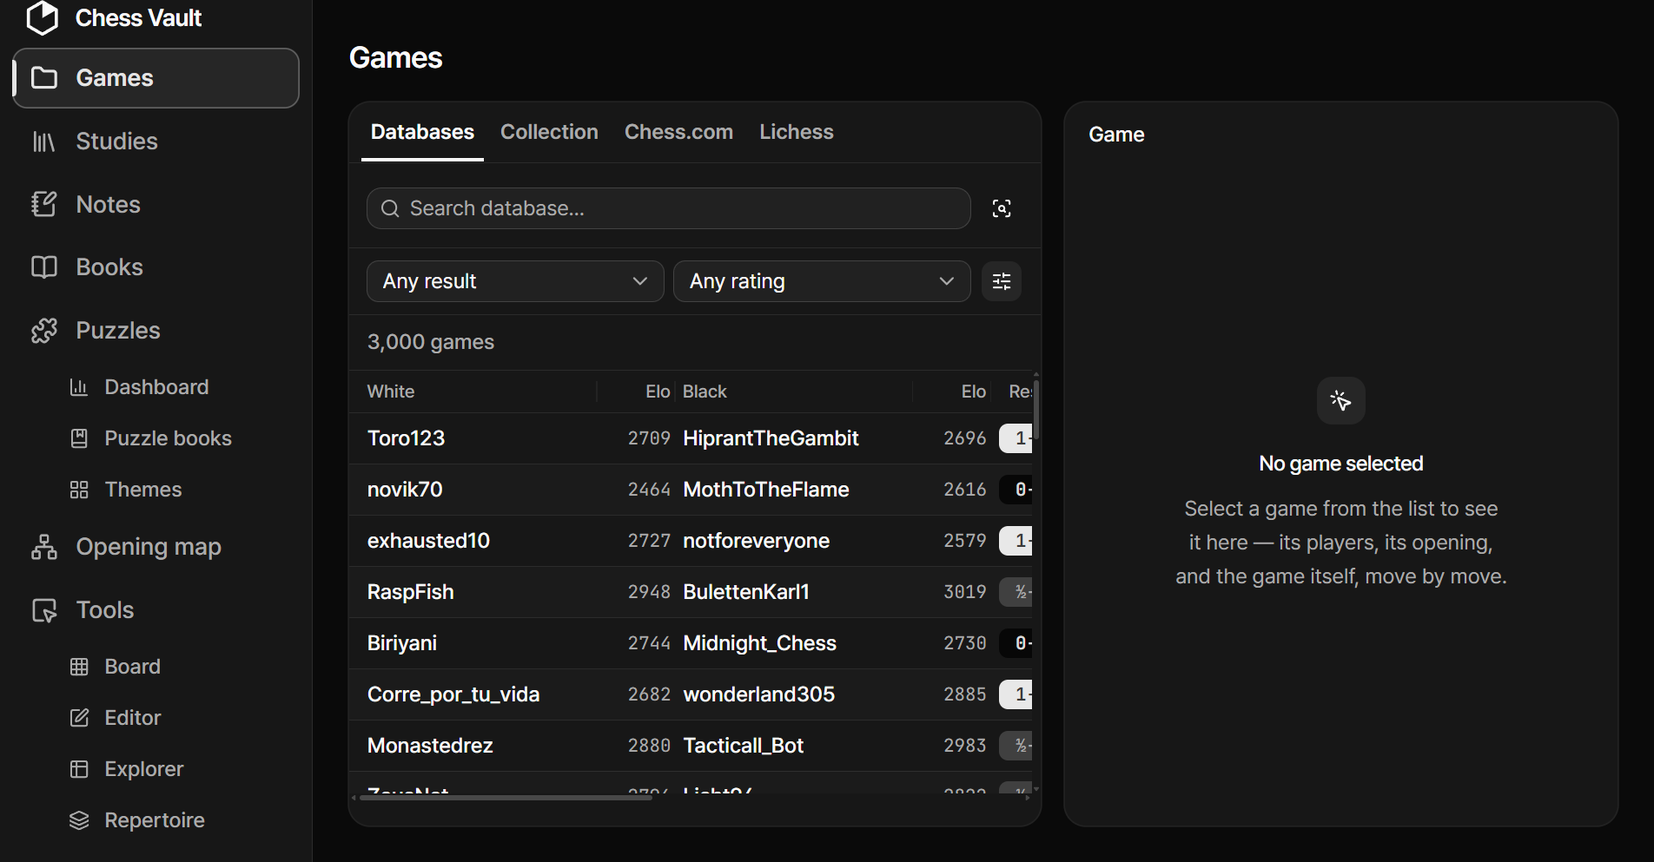
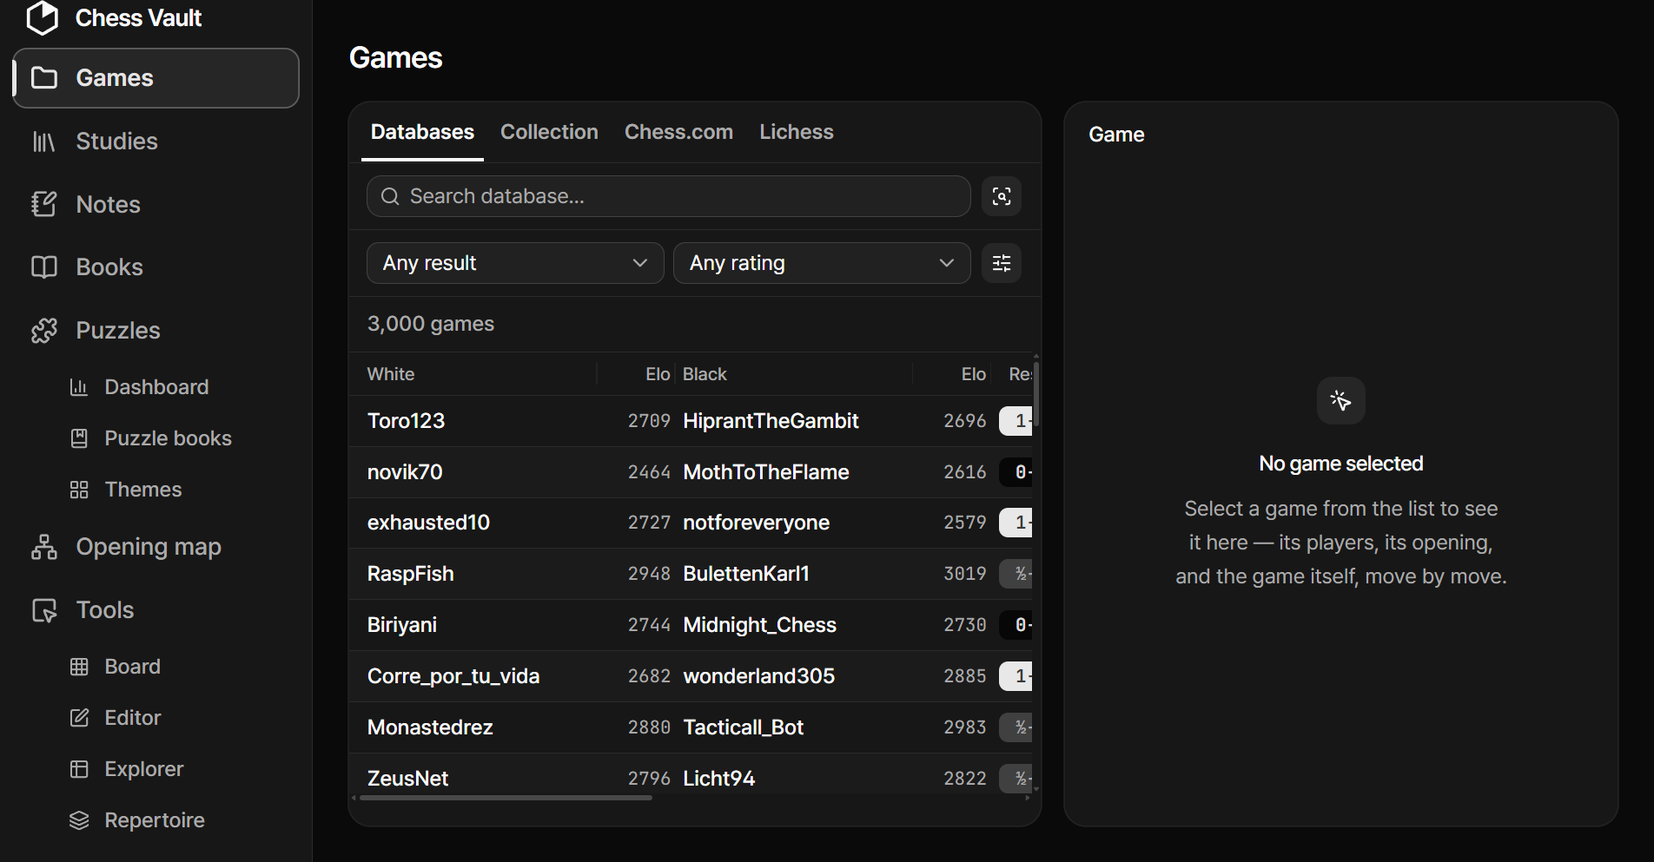
The docs catch up with the workspace, and the screenshots follow
The release-prep docs pass for the workspace work, landing on
docs.html after the manual's rename. The docs gain a Workspace
section - the layout, the wide-only gate quoted verbatim, working in
place (row clicks, the collection's document rule, the hunt filling
the band), the keyboard's split grammar and the Analysis panel - in
both languages, with a figure of its own. Around it, the touched
surfaces update: the sidebar's Tools list names Workspace and its
width rule, the Games page's width paragraph explains the one-row
fold against the stacked bands, By position documents the hunt
toggle, Enter and the return-symbol button, and the review graph's
hover marks get their line. The update log records the release's
three features in both languages. (A three-line --mono variable from
the landing work rides along - it was in the tree beside these
edits.)

The screenshot set recaptures against the current build - the games
pages, explorer, puzzle trainer and opening map had drifted across
this cycle's commits - and gains workspace.png: its own frame, wider
than the standard 1100 css-px (the page gates at 1152) and taller (at
the standard frame's 678 the board floored at its minimum over an
empty band), waiting on the band's rows rather than the board because
they land last.

diff --git a/web/landing/docs.html b/web/landing/docs.html
@@ -58,6 +58,9 @@
            because the sidebar sticks under it and the page anchors scroll
            past it. */
         --header-h: 3.75rem;
+        /* The second voice, as on the landing page: a path, a figure
+           number, a language code. Never prose. */
+        --mono: ui-monospace, SFMono-Regular, Menlo, Consolas, "Liberation Mono", monospace;
       }
       @media (prefers-color-scheme: dark) {
         :root {
@@ -326,6 +329,7 @@
         <a href="#engine" data-ko="엔진">The engine</a>
         <a href="#explorer" data-ko="탐색기">The explorer</a>
         <a href="#editor" data-ko="에디터">The editor</a>
+        <a href="#workspace" data-ko="워크스페이스">The workspace</a>
         <h5 data-ko="서재">Your library</h5>
         <a href="#studies" data-ko="스터디">Studies</a>
         <a href="#notes" data-ko="노트">Notes</a>
@@ -569,11 +573,13 @@
               with what you were last doing, and its arrangement is yours to decide.
             </p>
             <h2 data-ko="탐색">Navigation</h2>
-            <p data-ko="사이드바의 순서: <strong>Games · Studies · Notes · Books · Puzzles</strong>(하위로 Dashboard, Puzzle books, Themes) · <strong>Opening map</strong> · <strong>Tools</strong>(Board, Editor, Explorer, Repertoire) · <strong>Databases</strong>. 사이드바 아래에는 연결 상태 표시(«This machine», 서버 이름, 또는 «Offline»), 설정 톱니, 라이트/다크 전환이 있습니다.">
+            <p data-ko="사이드바의 순서: <strong>Games · Studies · Notes · Books · Puzzles</strong>(하위로 Dashboard, Puzzle books, Themes) · <strong>Opening map</strong> · <strong>Tools</strong>(Board, Editor, Explorer, Workspace, Repertoire — Workspace 항목은 그 페이지를 담을 만큼 넓은 창에서만 보입니다. <a href='#workspace'>워크스페이스</a> 참조) · <strong>Databases</strong>. 사이드바 아래에는 연결 상태 표시(«This machine», 서버 이름, 또는 «Offline»), 설정 톱니, 라이트/다크 전환이 있습니다.">
               The sidebar, top to bottom: <strong>Games · Studies · Notes · Books ·
               Puzzles</strong> (with Dashboard, Puzzle books and Themes under it) ·
               <strong>Opening map</strong> · <strong>Tools</strong> (Board, Editor, Explorer,
-              Repertoire) · <strong>Databases</strong>. Below them sit the connection label (“This
+              Workspace, Repertoire — the Workspace row exists only on windows wide enough to hold
+              that page; see <a href="#workspace">The workspace</a>) ·
+              <strong>Databases</strong>. Below them sit the connection label (“This
               machine”, your server's name, or “Offline”), the Settings gear, and the light/dark
               toggle.
             </p>
@@ -857,8 +863,10 @@
               list holds:
             </p>
             <ul>
-              <li data-ko="클릭(또는 끌기)으로 이동하는 <strong>평가 그래프</strong> — 접었다 펼 수 있습니다.">
-                The <strong>evaluation graph</strong> — click or drag to jump; folds away.
+              <li data-ko="클릭(또는 끌기)으로 이동하는 <strong>평가 그래프</strong> — 포인터 아래의 수가 파란 점과 안내선으로 표시되어 클릭이 어디로 가는지 미리 보여 주고, 접었다 펼 수 있습니다.">
+                The <strong>evaluation graph</strong> — click or drag to jump; the move under the
+                pointer marks itself with a blue dot and a guide line, so you see where a click
+                lands before it does. Folds away.
               </li>
               <li data-ko="진영별 요약: 정확도 %, 평균 손실, 북 무브 수(«known opening theory, not judged»), 그리고 <code>!!</code> <code>?!</code> <code>?</code> <code>??</code>의 개수. 판정 기호는 수 목록과 보드에도 그대로 붙습니다.">
                 Per-side summaries: accuracy %, average loss, the book-move count (“known opening
@@ -1099,6 +1107,79 @@
           </div>
         </section>
 
+        <section class="page" id="workspace">
+          <div class="doc">
+            <h1 data-ko="워크스페이스">The workspace</h1>
+            <p class="lede" data-ko="모든 분석 화면을 한 페이지에: 보드, 수 목록과 엔진, 탐색기와 분석 패널 — 그리고 그 아래 전체 너비의 게임 브라우저. 여러 맥락을 오가는 분석이 페이지 이동 없이 한 화면에서 흐르도록 만든 페이지입니다.">
+              Every analysis surface on one page: the board, the move list with the engine, the
+              explorer with an Analysis panel — and the whole games browser as a full-width band
+              underneath. It exists so that browsing games, consulting the explorer and analysing
+              stop being page changes.
+            </p>
+            <p data-ko="새로운 것은 없습니다 — 의도된 일입니다. 여기 있는 모든 창은 다른 페이지가 하나씩 보여 주는 바로 그 구성 요소이고, 같은 전역 상태를 읽습니다. 그래서 보드 페이지에서 분석하던 포지션이 워크스페이스에 그대로 따라 들어오고, 반대로도 마찬가지입니다.">
+              Nothing here is new, on purpose: every pane is the same component some other page
+              shows one at a time, reading the same state. A position you were analysing on the
+              Board page follows you in, and back out.
+            </p>
+            <figure>
+              <picture>
+                <source media="(prefers-color-scheme: dark)" srcset="shots/workspace-dark.png" />
+                <img src="shots/workspace.png" alt="The workspace: the board, moves and explorer over the games band" />
+              </picture>
+            </figure>
+            <h2 data-ko="넓은 화면 전용">Wide screens only</h2>
+            <p data-ko="이 페이지의 존재 이유는 동시성이므로, 여러 창을 담을 수 없는 창에서는 스스로 물러납니다. 좁은 창에서 열면 안내 카드가 대신 섭니다 — “The workspace shows the board, the moves, the explorer and the games browser side by side, and needs a window wide enough to hold them all. On this screen its panes are pages of their own.” — 그리고 사이드바의 Workspace 항목도 그런 창에서는 아예 그려지지 않습니다. 창을 다시 넓히면 모든 것이 그대로 돌아옵니다: 상태는 페이지가 아니라 앱이 들고 있습니다.">
+              The page's whole premise is simultaneity, so on a window that cannot hold its panes
+              it steps aside: a card explains — “The workspace shows the board, the moves, the
+              explorer and the games browser side by side, and needs a window wide enough to hold
+              them all. On this screen its panes are pages of their own.” — and the sidebar's
+              Workspace row is not drawn there at all. Widen the window and everything returns as
+              it was: the state belongs to the app, not the page.
+            </p>
+            <h2 data-ko="배치">The layout</h2>
+            <p data-ko="위 행은 세 기둥입니다: 보드(창의 높이가 허락하는 만큼 커지고, 남는 높이는 전부 아래 게임 밴드의 줄이 됩니다), 엔진이 얹힌 수 목록 패널, 그리고 탐색기 기둥 — 탐색기 아래에 <strong>Analysis</strong> 패널이 섭니다. 아래 밴드는 <a href='#games'>Games 페이지의 브라우저 전체</a>입니다: Databases · Collection · Chess.com · Lichess, 네 탭 그대로, 검색과 필터와 포지션 검색까지 전부.">
+              The top row is three columns: the board (as large as the window's height allows —
+              every line it cannot use becomes a games-band row instead), the moves panel with the
+              engine docked on top, and the explorer's column with the <strong>Analysis</strong>
+              panel under it. The band below is <a href="#games">the Games page's whole
+              browser</a> — Databases · Collection · Chess.com · Lichess, all four tabs, search,
+              filters and the position hunt included.
+            </p>
+            <h2 data-ko="그 자리에서">Working in place</h2>
+            <ul>
+              <li data-ko="밴드의 어느 줄이든 한 번 클릭하면 그 게임이 보드에 올라옵니다 — 아카이브의 게임은 당신 진영에서. 페이지는 어디로도 가지 않습니다. <kbd>↑</kbd><kbd>↓</kbd>로 줄을 넘기면 게임이 차례로 보드를 지나갑니다.">
+                One click on any band row puts that game on the board — archive games from your
+                side — and the page goes nowhere. <kbd>↑</kbd><kbd>↓</kbd> walk the rows, each
+                game taking the board in turn.
+              </li>
+              <li data-ko="모음의 게임은 문서입니다: 두 번 클릭(또는 <kbd>Enter</kbd>)이 그 문서 페이지를 엽니다 — 주석은 문서의 일이고, 워크스페이스의 보드는 일회용이라 줄 넘기기가 언제나 자유롭습니다. 데이터베이스와 아카이브의 게임은 두 번 클릭해도 이 자리에서 열립니다.">
+                A collection game is a document: a double click (or <kbd>Enter</kbd>) opens its
+                document page — annotating is a document's work, and the workspace board stays
+                throwaway so browsing stays free. Database and archive games open in place even on
+                a double click.
+              </li>
+              <li data-ko="탐색기의 «Find this position in the databases browser»는 여기서는 아래 밴드를 그 포지션 검색으로 채웁니다 — 페이지를 떠나는 대신.">
+                The explorer's “Find this position in the databases browser” fills the band below
+                with that hunt, instead of leaving the page.
+              </li>
+              <li data-ko="키보드의 문법: <kbd>←</kbd><kbd>→</kbd>는 수를, <kbd>↑</kbd><kbd>↓</kbd>는 게임 줄을 걷습니다. <kbd>Home</kbd><kbd>End</kbd>는 보드를 처음과 끝으로, <kbd>f</kbd>는 보드를 뒤집습니다.">
+                The keyboard's grammar: <kbd>←</kbd><kbd>→</kbd> walk the moves,
+                <kbd>↑</kbd><kbd>↓</kbd> walk the games. <kbd>Home</kbd> and <kbd>End</kbd> jump
+                the board to its start and end, <kbd>f</kbd> flips it.
+              </li>
+            </ul>
+            <h2 data-ko="분석 패널">The Analysis panel</h2>
+            <p data-ko="탐색기 아래의 <strong>Analysis</strong> 패널은 보드 페이지가 수 목록 밑에 접어 두는 리뷰 띠 그 자체를 패널로 세운 것입니다 — 게임이 올라오면 “Review game”을 권하고, 끝나면 평가 그래프(여기서는 더 크게)와 진영별 요약을 보여 줍니다. 아직 아무것도 없으면 이렇게 말합니다: “Play moves or load a game, then run an engine review.” 머리의 스위치가 패널을 접습니다 — 탐색기 머리의 스위치와 같은 문법으로.">
+              The <strong>Analysis</strong> panel under the explorer is the Board page's review
+              strip standing as a panel of its own: it offers “Review game” when a game lands,
+              and when a review finishes it holds the evaluation graph (drawn taller here) and the
+              per-side summaries. With nothing to show it says so: “Play moves or load a game,
+              then run an engine review.” The switch in its header folds it — the same grammar as
+              the explorer's own switch.
+            </p>
+          </div>
+        </section>
+
         <section class="page" id="studies">
           <div class="doc">
             <h1 data-ko="스터디">Studies</h1>
@@ -1290,11 +1371,14 @@
               (Start · Back · {idx} / {plies} · Forward · End) and the whole mainline as clickable
               SAN. On a phone the same arrives as a “{white} vs {black}” sheet.
             </p>
-            <p data-ko="네 개의 탭이 어느 너비에서나 페이지입니다 — 너비는 겉모습만 바꿉니다. 데스크톱은 상세 칸과 빽빽한 표를 더하고, 휴대폰은 같은 탭들에 카드 줄을 주며 게임 상세를 그 줄의 자기 메뉴에서 엽니다. 만들기 버튼은 한 번 눌러 곧장 가져오기(«Import a game»)로 갑니다 — 그것이 내주던 나머지는 전부 탭이 되었기 때문입니다.">
+            <p data-ko="네 개의 탭이 어느 너비에서나 페이지입니다 — 너비는 겉모습만 바꿉니다. 데스크톱은 상세 칸과 빽빽한 표를 더하고, 휴대폰은 같은 탭들에 카드 줄을 주며 게임 상세를 그 줄의 자기 메뉴에서 엽니다. 판이 한 줄을 담을 만큼 넓으면 — 워크스페이스의 밴드, 넓은 창의 이 페이지 — 각 탭의 검색·필터·개수가 한 줄로 접혀 그 아래가 전부 게임 줄이 되고, 좁으면 위에 적은 띠들의 배치로 돌아갑니다. 만들기 버튼은 한 번 눌러 곧장 가져오기(«Import a game»)로 갑니다 — 그것이 내주던 나머지는 전부 탭이 되었기 때문입니다.">
               The four tabs are the page at every width; width changes only the dressing. A
               desktop adds the details column and the dense table, a phone gives the same tabs
-              card rows and opens a game's details from the row's own menu. The create button is
-              one press straight to import (“Import a game”), since everything else it used to
+              card rows and opens a game's details from the row's own menu. Where the pane is wide
+              enough to hold one line — the workspace's band, this page on a wide window — each
+              tab's search, filters and count fold into a single row and everything under it is
+              game rows; narrower panes keep the stacked bands described above. The create button
+              is one press straight to import (“Import a game”), since everything else it used to
               offer is a tab.
             </p>
           </div>
@@ -1343,9 +1427,11 @@
               </table>
             </div>
             <h2 data-ko="포지션으로">By position</h2>
-            <p data-ko="«Search by» 전환을 <strong>Position</strong>으로 — «Paste a FEN» 또는 «Set the position up on a board». 그다음 두 사다리가 일치의 뜻을 정합니다:">
-              Flip “Search by” to <strong>Position</strong> — “Paste a FEN” or “Set the position up
-              on a board”. Two ladders then define what a match means:
+            <p data-ko="검색 상자 옆의 보드-스캔 토글(«Search by position or material»)이 검색 줄을 엽니다. «Search by»를 <strong>Position</strong>으로 — «Paste a FEN» 또는 «Set the position up on a board» — 그리고 FEN 칸에서 <kbd>Enter</kbd>가, 또는 줄 끝의 ↵ 버튼이 검색을 실행합니다. 두 사다리가 일치의 뜻을 정합니다:">
+              The board-scan toggle beside the search box (“Search by position or material”)
+              opens the hunt row. Flip “Search by” to <strong>Position</strong> — “Paste a FEN” or
+              “Set the position up on a board” — and <kbd>Enter</kbd> in the FEN field, or the ↵
+              button at the row's end, runs it. Two ladders then define what a match means:
             </p>
             <div class="scroll-x">
               <table class="controls">

diff --git a/docs/update-log.ko.md b/docs/update-log.ko.md
@@ -87,6 +87,41 @@ v0.6.0 태그를 붙인 뒤에 들어온 것들이라 저장소에는 있지만 
   든 `pre`가 제 가장 긴 줄만큼 단을 넓혀 페이지를 390px 휴대폰보다 66px
   넓게 만들고 있었습니다. 그리고 `word-break: keep-all`이 없어 한국어가
   어절 중간에서 꺾이고 있었습니다 — 제목이 "평범 / 한 파일로"로 읽혔습니다.
+- **워크스페이스: 모든 분석 화면을 한 페이지에.** 도구 아래의 새 넓은
+  화면 전용 페이지 — 보드, 엔진이 얹힌 수순 패널, 분석 패널을 거느린
+  탐색기, 그리고 그 아래 전체 너비의 게임 브라우저 밴드. 밴드의 어느
+  줄이든 고르면 그 게임이 그 자리에서 보드에 올라오고(아카이브 게임은
+  내 진영에서, ↑/↓로 줄을 넘기면 게임이 차례로 보드를 지나갑니다),
+  탐색기의 포지션 검색은 페이지를 떠나는 대신 밴드를 채우며, 모음의
+  게임은 더블클릭이 문서 페이지를 엽니다 — 주석은 문서의 일이고,
+  일회용 보드가 자유로운 탐색을 지켜 줍니다. 새로운 것이 없는 것은
+  의도입니다: 모든 창이 다른 페이지가 하나씩 보여 주는 그 구성 요소
+  그대로, 같은 스토어로 움직입니다 — 보드 페이지와 워크스페이스
+  사이에서 포지션이 따라다니는 것도 그 덕분입니다. 창이 좁으면
+  페이지는 안내 카드로 물러나고 사이드바 항목도 그려지지 않습니다.
+  밴드를 위해 Games 페이지의 탭 브라우저를 컴포넌트(GamesBrowser)로
+  추출했고, 원래 페이지에서 바이트 단위로 동일함을 증명했습니다.
+- **게임 테이블의 크롬이 판이 허락하는 곳에서 한 줄로 접힙니다.**
+  검색, 필터 선택 상자, 개수가 목록마다 세 띠로 쌓여 있었습니다 —
+  워크스페이스 밴드에서는 높이의 절반이 컨트롤이었습니다. 측정한 판
+  너비가 충분하면 한 줄로 접히고(탭마다 자기 배열: 데이터베이스는
+  검색과 함께, 모음은 가져오기로 끝나고, 아카이브는 개수와 선택으로 —
+  선택 모드의 컨트롤은 모드가 켜진 동안에만 자기 띠로 나타납니다),
+  좁은 판은 쌓인 띠를 유지하며, 그 사이의 너덜한 줄바꿈 상태는 아예
+  존재하지 않습니다. 줄의 아이콘은 이제 한 규칙을 따릅니다 — 상태를
+  가진 토글은 곁의 필드처럼 상자를 입고, 자리를 떠나는 동사는 조용히
+  — 그리고 포지션 검색은 FEN 칸의 Enter로 실행되며 버튼은 줄 끝의
+  ↵입니다.
+- **리뷰는 자기가 판정한 트리와 함께 사라지고, 화살표 키가
+  돌아옵니다.** 게임을 리뷰하고 떠났다가 다른 게임으로 돌아오면 옛
+  평가 그래프가 새 게임 위에 그려진 채 클릭이 조용히 죽어
+  있었습니다 — 이제 트리가 바뀌는 순간 리뷰 스토어가 스스로
+  비웁니다. 화살표 키는 내비게이션 줄 통합 때 모든 보드 페이지에서
+  죽어 있었고(리스너가 데스크톱에서 더는 그려지지 않는 줄에 살고
+  있었습니다) 이제 보드 자신에게 삽니다. 그래프도 읽기 좋아졌습니다:
+  포인터 아래의 수가 파란 점과 안내선으로 표시되고, 커서는 포인터이며,
+  접힌 그래프는 자리를 차지하지 않고, 짧은 창에서는 아래의 이동
+  버튼을 잘라먹는 대신 그래프가 눌립니다.
 - **수순 메뉴가 자기 헤더를 반복하지 않습니다.** 데스크톱에서 수순 패널의
   ⋯ 메뉴가 엔진 리뷰, 수 모두 지우기, 보드 비우기를 — 이미 그 일을 하는
   버튼들 바로 한 아이콘 옆에서 — 다시 나열하고 있었습니다. FEN/PGN 복사가

diff --git a/docs/update-log.md b/docs/update-log.md
@@ -94,6 +94,47 @@ installer. This section becomes the next version's heading.
   been sizing its column to its longest line and taking the page 66px wider
   than a 390px phone; and Korean was breaking mid-eojeol without
   `word-break: keep-all` — the headline read "평범 / 한 파일로".
+- **The workspace: every analysis surface on one page.** A new
+  wide-screen page under Tools — the board, the moves panel with the
+  engine docked, the explorer with an Analysis panel under it, and the
+  whole games browser as a full-width band underneath. Selecting any
+  band row previews the game on the board in place (archive games from
+  your side; ↑/↓ walk the rows, each game taking the board in turn),
+  the explorer's position hunt fills the band instead of leaving, and a
+  collection game's double-click opens its document page, because
+  annotating is a document's work and a throwaway board is what keeps
+  browsing free. Nothing on it is new by design: every pane is the
+  component some other page shows one at a time, driven by the same
+  stores — which is also why a position follows you between the Board
+  page and the workspace. On a window too narrow for its panes the page
+  steps aside with a card, and the sidebar row is not drawn at all; the
+  Games page's tabbed browser was extracted into a component
+  (GamesBrowser) to make the band possible, proved byte-identical on
+  the page it came from.
+- **The games tables' chrome folds to one row where the pane holds
+  one.** Search, the filter selects and the count stood as three
+  stacked bands over every list — in the workspace's band that was half
+  the height showing controls. Where the measured pane is wide enough
+  they fold into a single row (each tab's own arrangement: the
+  databases with their search, the collection ending on Import, the
+  archives on the count and Select…, whose selection controls now
+  appear as a band only while the mode is on); narrower panes keep the
+  stacked bands, and the ragged in-between wrap never exists. The row's
+  icons follow one rule now — stateful toggles wear the box of the
+  fields they stand among, verbs that navigate away stay quiet — and
+  the position hunt runs from Enter in its FEN field, its button an ↵
+  at the row's end.
+- **A review dies with the tree it judged, and the arrow keys come
+  back.** Reviewing a game, leaving, and returning with another left
+  the old evaluation graph drawn over the new game with every click
+  silently dead — the review store now clears itself the moment the
+  tree is replaced. The arrow keys had died across every board page in
+  the nav-row consolidation (the one listener lived on a row that
+  stopped rendering on desktops); they live on the board itself now.
+  And the graph got legible: the move under the pointer marks itself
+  with a blue dot and a guide line, the cursor is a pointer, a folded
+  graph takes no room, and the strip compresses on short windows
+  instead of clipping the navigation bar under it.
 - **The moves menu stops repeating its own header.** On a desktop the
   moves panel's ⋯ listed Engine review, Clear all moves and Clear the
   board one icon away from the buttons that already offer them — a
